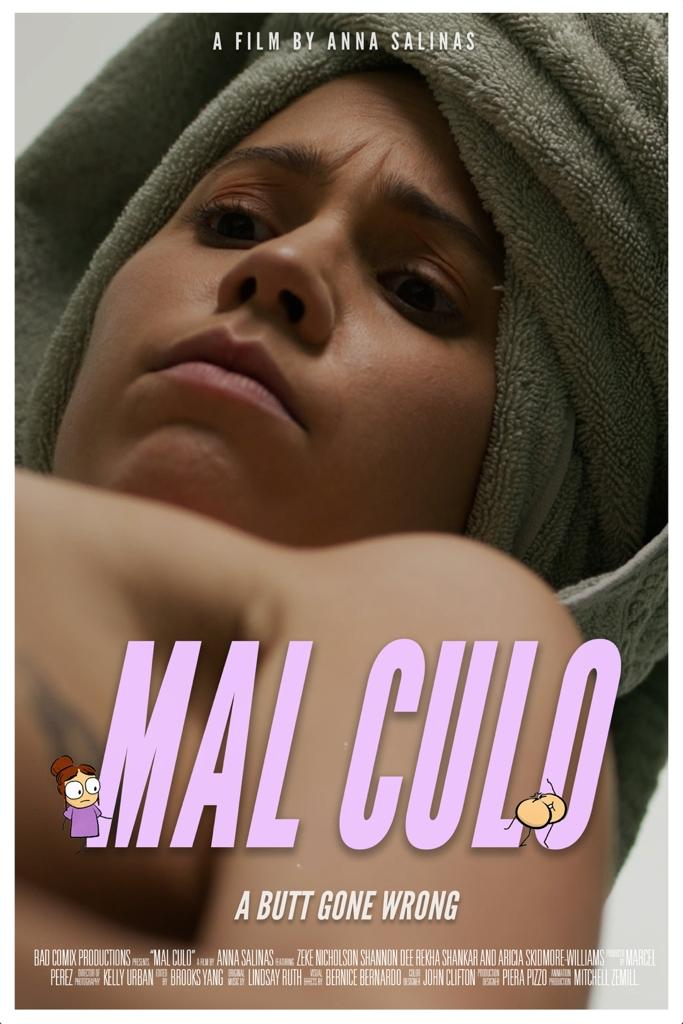
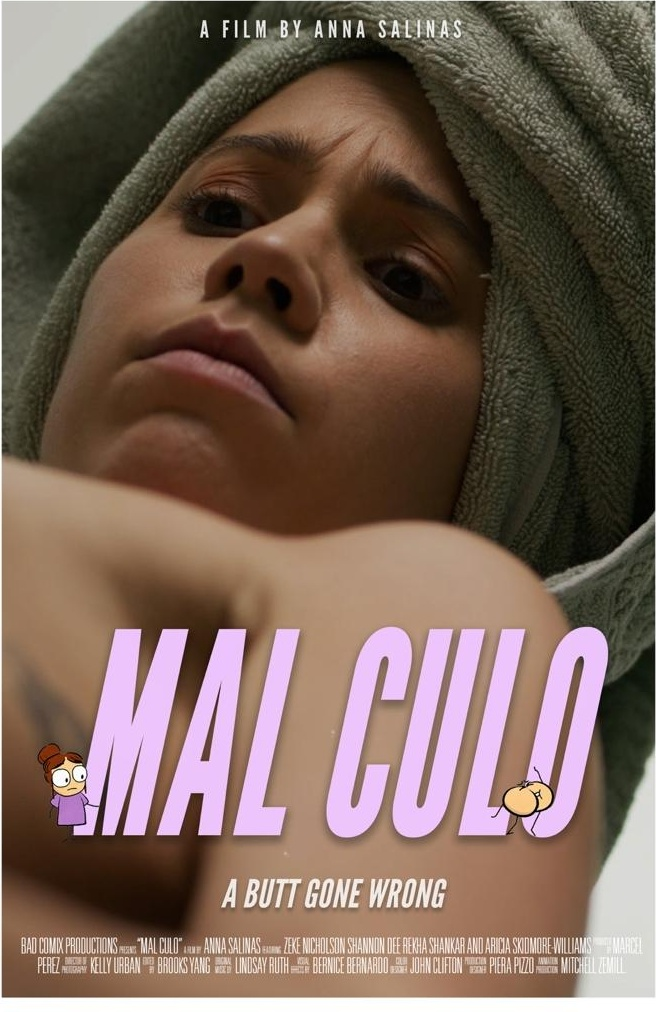
Trim white border from Mal Culo poster, use default cover fit

diff --git a/index.html b/index.html
@@ -742,7 +742,7 @@
                 </div>
             </a>
             <a class="strip-item" href="https://www.imdb.com/title/tt33932947/" target="_blank" rel="noopener noreferrer">
-                <img src="images/mal-culo.jpg" alt="Mal Culo" style="object-fit: contain;">
+                <img src="images/mal-culo.jpg" alt="Mal Culo">
                 <div class="strip-item-info">
                     <span class="strip-info-title">Mal Culo</span>
                     <span class="strip-info-meta">Short · 2024</span>
